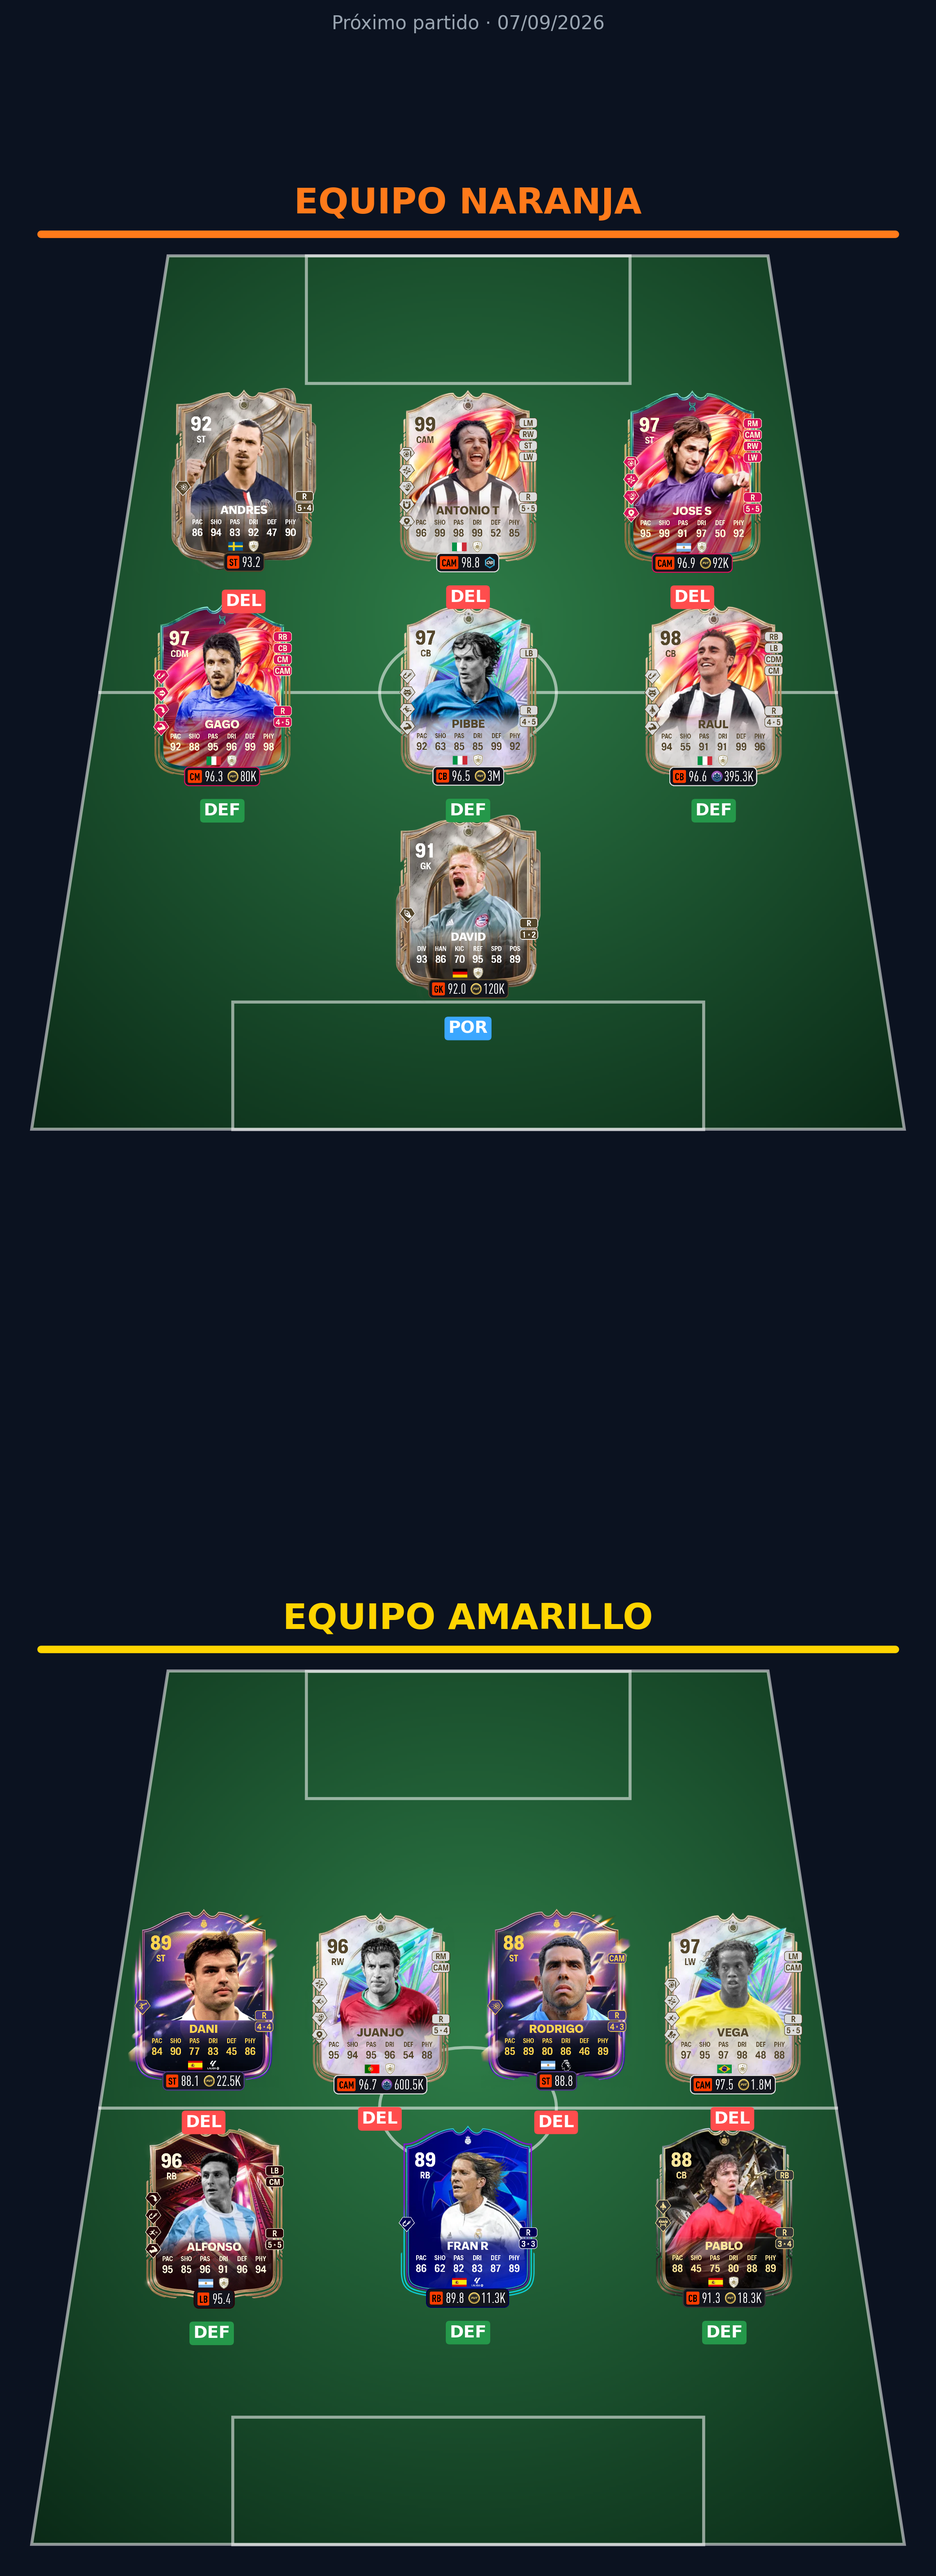
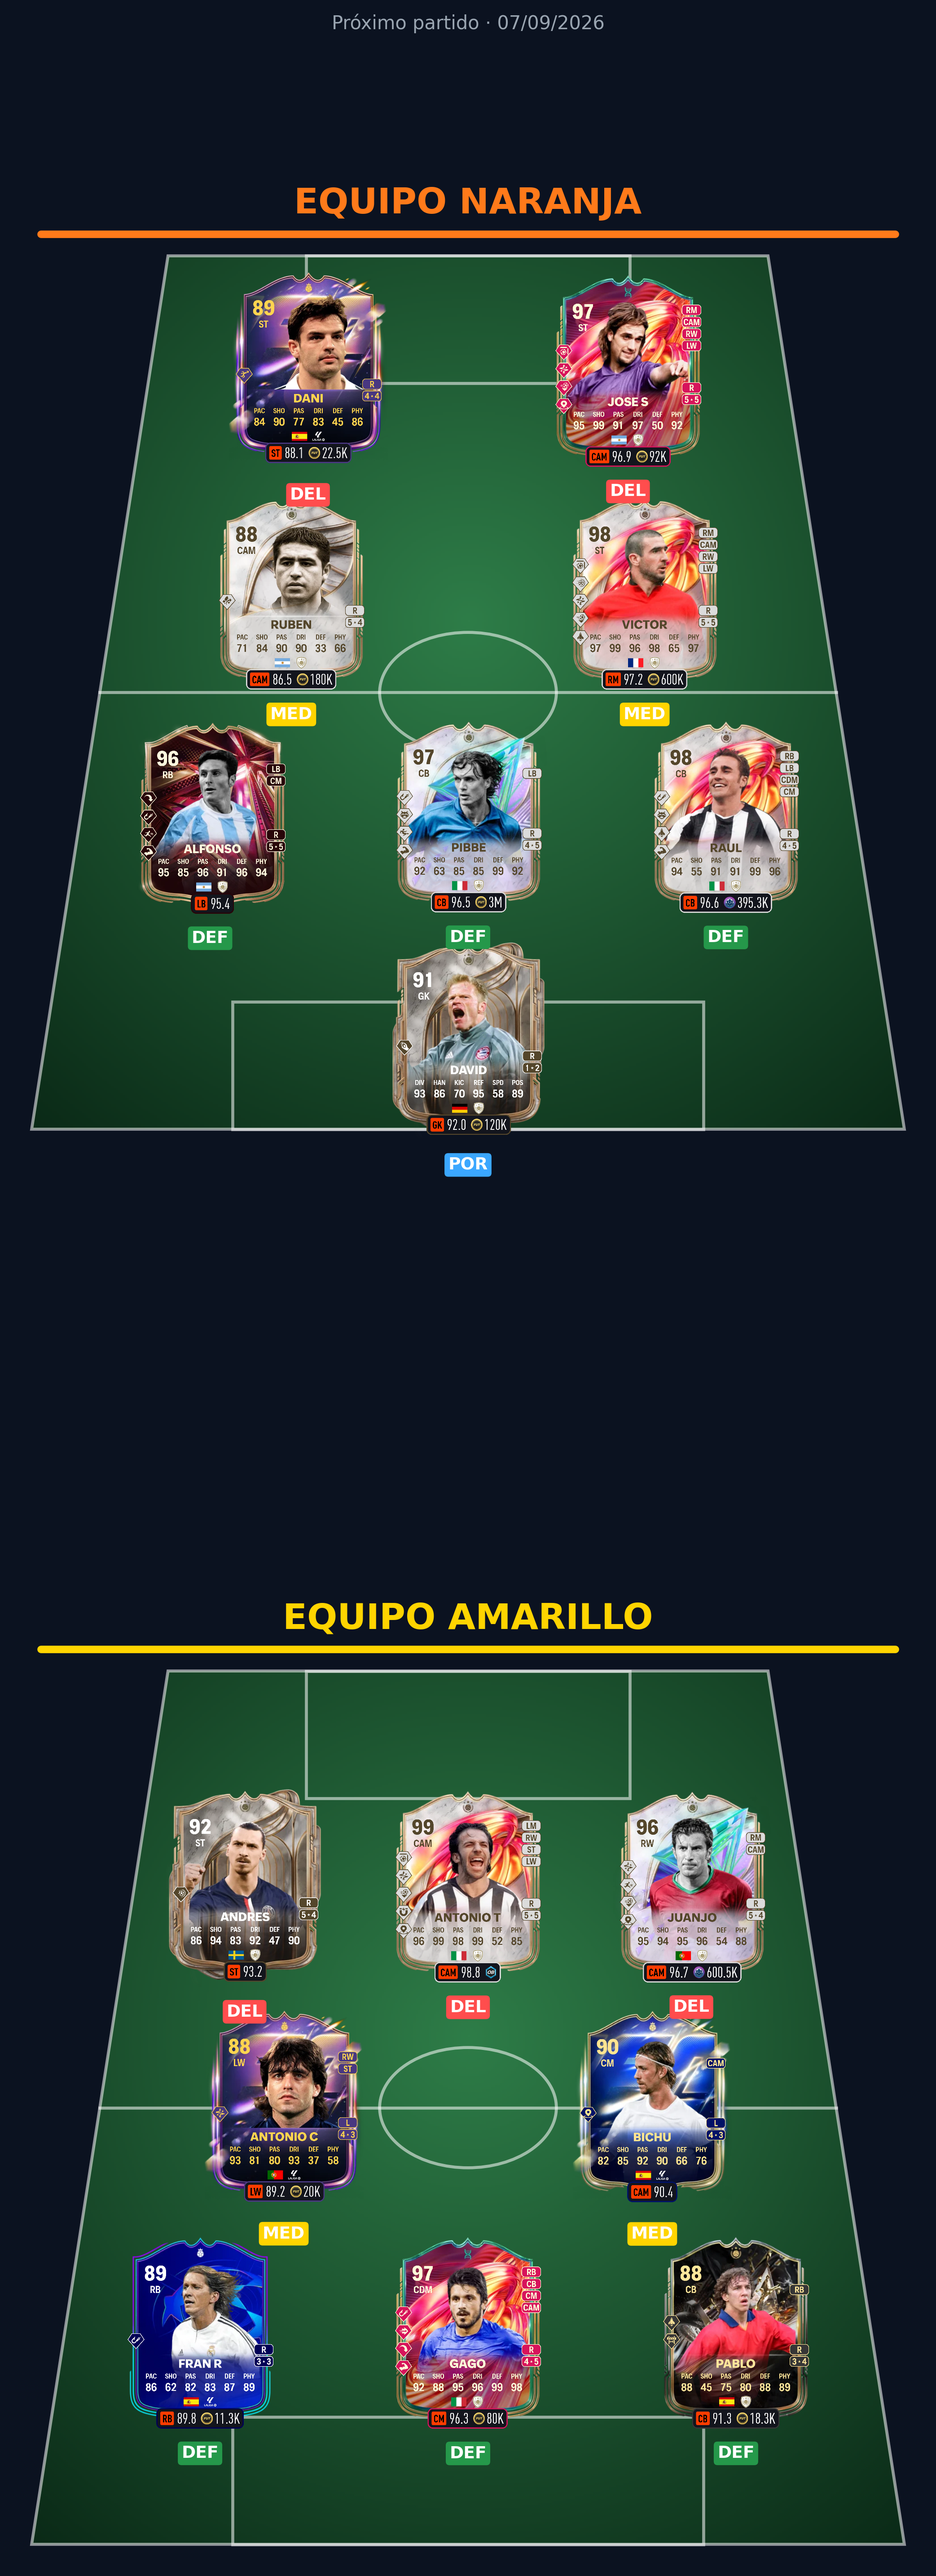
Actualizar resultados y estadisticas (05/09/2026 22:11)

Changed region(s): [[0.1247, 0.6868, 0.8729, 0.9677], [0.1247, 0.0937, 0.8729, 0.4683]]

diff --git a/index.html b/index.html
@@ -113,15 +113,25 @@
 <header>
   <img class="crest" src="img/escudo.png" alt="Escudo Peña QueSeFolme">
   <h1>Peña QueSeFolme</h1>
-  <p>Resultados y Estadísticas · Actualizado el 05/09/2026 22:09</p>
+  <p>Resultados y Estadísticas · Actualizado el 05/09/2026 22:11</p>
 </header>
 <nav>
-  
+  <a href="#proximo">🔜 Próximo partido</a>
   <a href="#clasificacion">🏆 Clasificación</a>
   <a href="#goleadores">⚽ Goleadores</a>
   <a href="#partidos">📅 Partidos</a>
 </nav>
 <main>
+  <section id="proximo">
+    <h2>🔜 Próximo partido</h2>
+    
+    <p class="muted" style="text-align:center;">07/09/2026</p>
+    <img src="img/proximo_partido.png" alt="Alineación del 07/09/2026" loading="lazy">
+    <div class="scorers-row" style="margin-top:18px;">
+      <div><h3 style="color:var(--naranja);">Naranja</h3><ul class="scorers"><li>Alfonso <span class="muted">(DEF)</span></li><li>Dani <span class="muted">(DEL)</span></li><li>David <span class="muted">(POR)</span></li><li>JoseS <span class="muted">(DEL)</span></li><li>Pibbe <span class="muted">(DEF)</span></li><li>Raul <span class="muted">(DEF)</span></li><li>Ruben <span class="muted">(MED)</span></li><li>Victor <span class="muted">(MED)</span></li></ul></div>
+      <div><h3 style="color:var(--amarillo);">Amarillo</h3><ul class="scorers"><li>Andres <span class="muted">(DEL)</span></li><li>AntonioC <span class="muted">(MED)</span></li><li>AntonioT <span class="muted">(DEL)</span></li><li>Bichu <span class="muted">(MED)</span></li><li>FranR <span class="muted">(DEF)</span></li><li>Gago <span class="muted">(DEF)</span></li><li>Juanjo <span class="muted">(DEL)</span></li><li>Pablo <span class="muted">(DEF)</span></li></ul></div>
+    </div>
+  </section>
   <section id="clasificacion">
     <h2>🏆 Clasificación general</h2>
     <p class="muted">Todavía no hay resultados registrados.</p>
